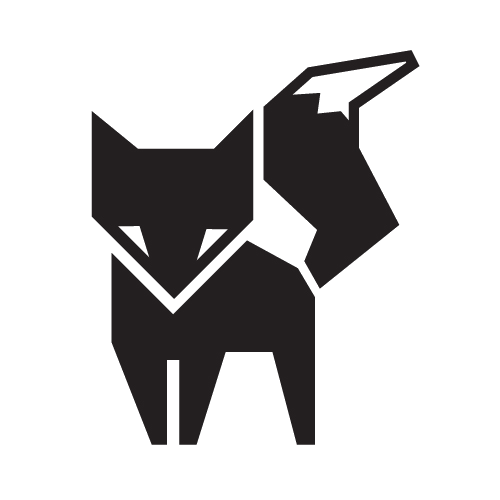
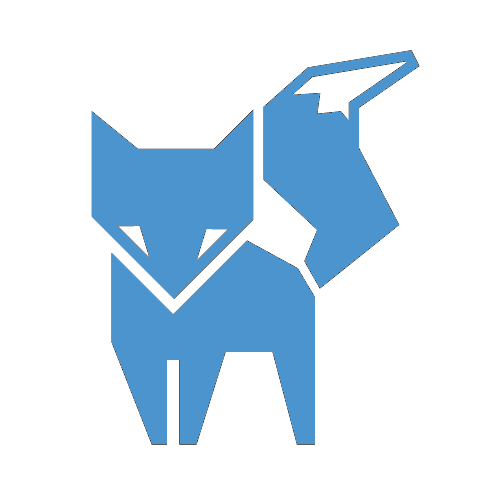
Style login page (#36)

Changed region(s): [[0.18, 0.09, 0.84, 0.9]]

diff --git a/client/src/components/dashboard/login.css b/client/src/components/dashboard/login.css
@@ -1,39 +1,5 @@
-#logo{
-	width: 20%;
-	height: 20%;
-}
-
-/*.center {
-  display: block;
-  margin-left: auto;
-  margin-right: auto;
-  margin-bottom: auto;
-  margin-top: auto;
-width: 50%;
-  height: 50%;
-}*/
-
-#gradient {
-	background-image: linear-gradient(#717985    , #FFFFFF)
-}
-
 #user_name, ::placeholder {
 	color: #000000;
-}
-
-#submitButton {
- 	/* width: 100px; */
-	height: 30px;
-	background-color: transparent;
-	font-family: 'Roboto', sans-serif;
-	border: 0.5px solid #555555;
-	border-radius: 6px;
-	transition-duration: 0.4s;
-}
-
-#submitButton:hover {
-	color: #FFFFFF;
-	background-color: #555555;
 }
 
 .parent-container {
@@ -50,8 +16,8 @@ width: 50%;
 	/*background-color: grey;*/
 }
 img {
-	width: 400px;
-	height: 400px;
+	width: 270px;
+	height: 270px;
 	display: block;
   	margin-left: auto;
   	margin-right: auto;
@@ -62,21 +28,68 @@ img {
 }
 
 .input-wrapper {
-	display: flex;
+	display: inline-flex;
 	align-items: center;
-	width: 25rem;
+	width: 35rem;
 }
 
 #user_name {
-	font-size: 35px;
+	font-size: 70px;
 	font-family: 'Roboto', sans-serif;
+	color: #4c94ce;
 }
 
 #userName {
-	border-bottom: 2px solid #030440;
+	margin-top: 20px;
+	padding-left: 15px;
+	border-radius: 24px;
+	box-shadow: 7px 7px 11px 1px rgb(131, 125, 125, 0.5);
+	/* border: 1px solid #4c94ce !important; */
+	align-self: center;
+	border: none;
+	font-size: 20px;
+	height: 45px;
 }
 
 ::placeholder {
     font-size: 20px;
+	color: #4c94ce;
+	opacity: 0.75;
 	font-family: 'Roboto', sans-serif;
+}
+
+#name_text {
+	margin-top: -15px;
+	font-weight: 500;
+	font-size: 20px;
+	font-family: 'Roboto', sans-serif;
+	color: #4c94ce;
+}
+
+#wrappinginput {
+	display: flex;
+	flex-direction: row;
+	align-items: center;
+	justify-content: center;
+}
+
+
+#arrow {
+	height: 25px;
+	width: 15px;
+	vertical-align: middle;
+	padding-left: 3px;
+	/* top: 50%;
+	left: 50%; */
+}
+
+#submitButton {
+	border: none;
+	width: 85px;
+	height: 45px;
+	background-color: #4c94ce;
+	font-family: 'Roboto', sans-serif;
+	border-radius: 24px;
+	margin-left: 20px;
+	box-shadow: 7px 7px 11px 1px rgb(131, 125, 125, 0.5);
 }

diff --git a/client/src/components/dashboard/Login.js b/client/src/components/dashboard/Login.js
@@ -4,6 +4,7 @@ import  { Route, Redirect } from 'react-router-dom'
 import './login.css'
 
 const logo = require('./foxy2.png');
+const arrow = require('./right-arrow.png');
 const cookies = new Cookies();
 
 class Login extends React.Component {
@@ -49,9 +50,12 @@ class Login extends React.Component {
                     </div>
                     <div class="input-wrapper">
                         <row>
-                            <label for="userName" id="user_name">Collaborative Drawing</label>
-                            <input type="text" placeholder="What's your name?" s={3} label="userName" id="userName" onChange={this.handleChange}/>
-                            <button type="button" id="submitButton" onClick={this.onSubmit}>Start drawing!</button>
+                            <label for="userName" id="user_name">Hi there!</label>
+                            <p id="name_text">Welcome to Collaborative Drawing</p>
+                            <div id="wrappinginput">
+                                <input type="text" placeholder="Enter name here" s={3} label="userName" id="userName" onChange={this.handleChange}/>
+                                <button type="button" id="submitButton" onClick={this.onSubmit}><img src={arrow} alt="arrow" id="arrow"/></button>
+                            </div>
                         </row>
                     </div>
                 </div>

diff --git a/client/src/components/layout/style.css b/client/src/components/layout/style.css
@@ -203,7 +203,8 @@
 } */
 
 .fa-2x {
-  font-size: 2em !important;}
+  font-size: 2em !important;
+}
 
 .fas {
     margin-top: auto;
